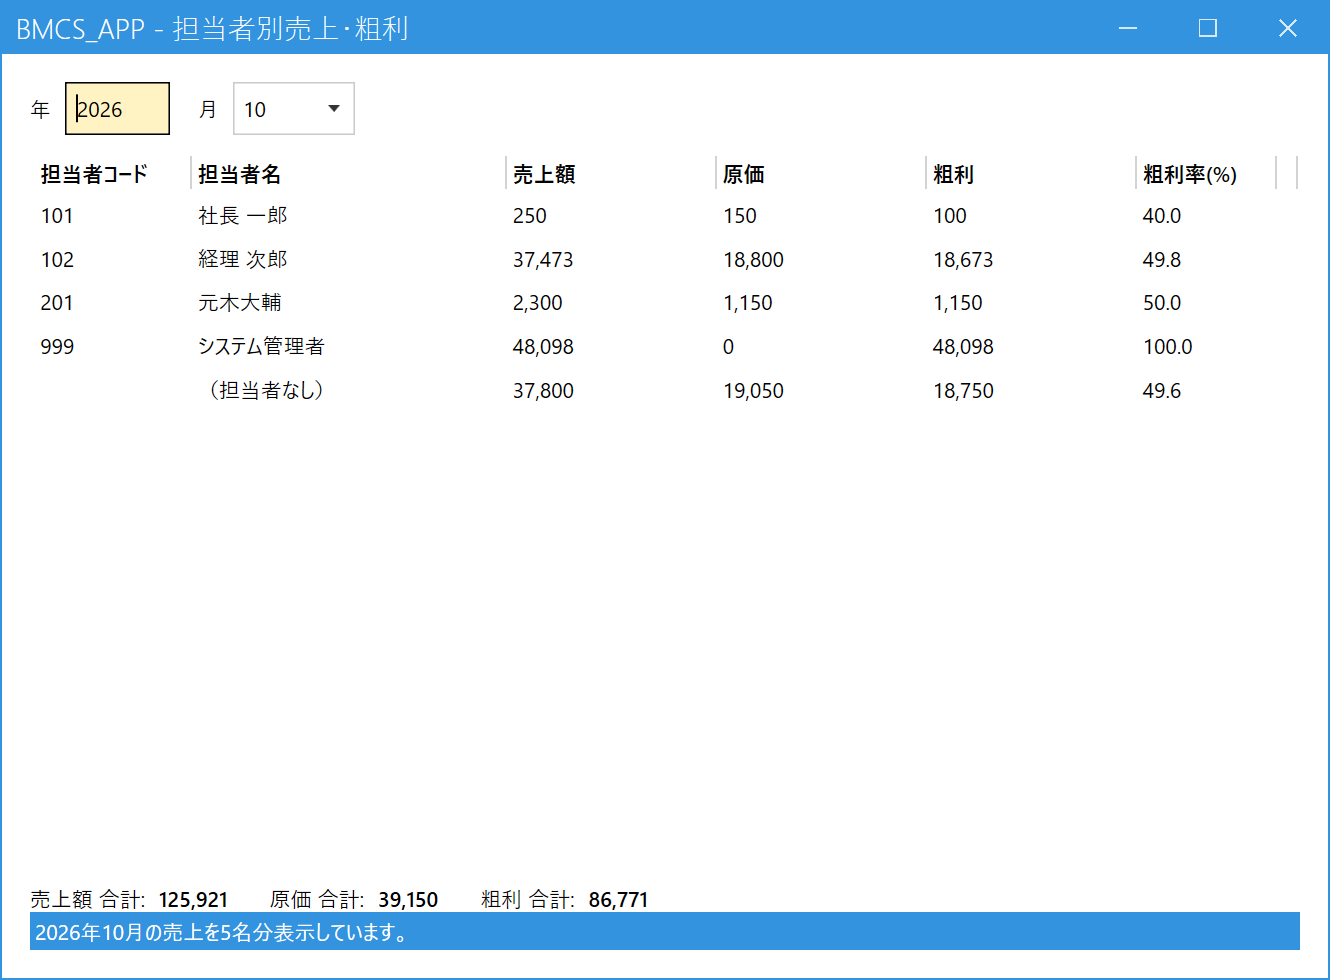
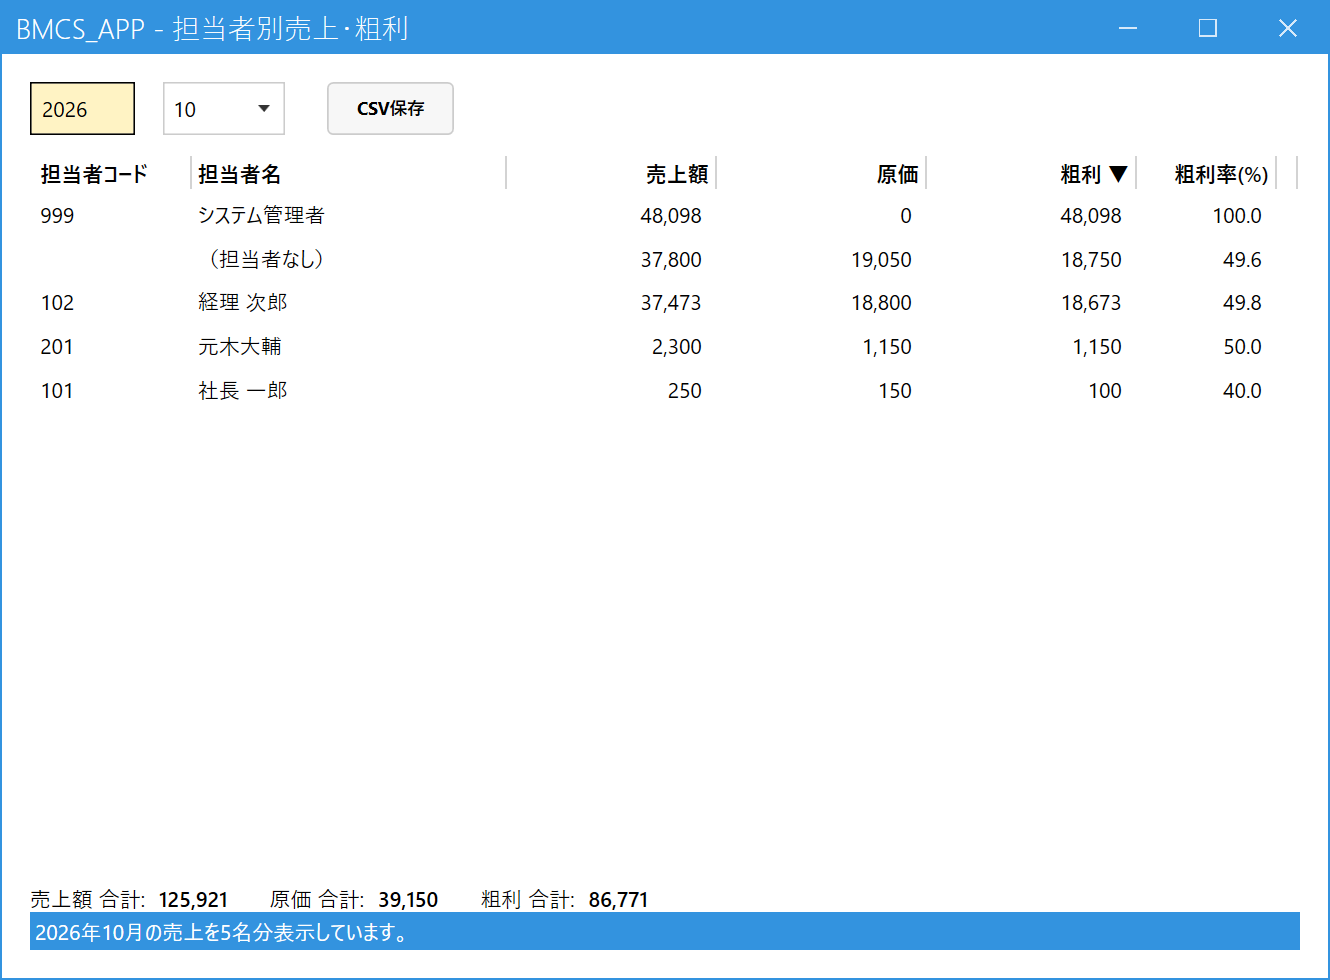
操作マニュアルの分析画面の画像を撮り直し、得意先別・商品別を図入りで説明する
- 担当者別売上・粗利の画像を新しい画面（ラベル削除・CSV保存・粗利降順）に差し替え、注釈と説明を直す
- 得意先別・商品別売上・粗利と、並べ替え済みの画像を追加し、sales-summary.html に図を入れる

diff --git a/docs/user-manual-jp/sales-summary.html b/docs/user-manual-jp/sales-summary.html
@@ -27,6 +27,32 @@
 </table>
 <p>開くと<b>今月</b>の集計が表示されます。ほかの月を見るときは、左上の<b>年</b>（4桁）と<b>月</b>の欄を変えると、すぐに表示し直します。月次締めをしていない月でも見られます。画面の下に、全体の<b>合計</b>（売上額・原価・粗利）が出ます。</p>
 
+<figure data-ann='[
+ {"r":[30,82,255,53],"n":1,"b":[700,108]},
+ {"r":[327,82,127,53],"n":2,"b":[560,40]},
+ {"r":[33,156,1330,36],"n":3,"b":[1150,110]},
+ {"r":[30,196,1375,305],"n":4,"b":[700,640]},
+ {"r":[22,878,640,40],"n":5,"b":[900,800]}]'>
+  <div class="frame"><img src="images/csales-01-main.png" alt="得意先別売上・粗利"></div>
+  <figcaption>得意先別売上・粗利（2026年10月の例）</figcaption>
+</figure>
+<ol class="legend">
+  <li><b>年・月</b>：集計する月です。左が年（4桁）、右が月です。</li>
+  <li><b>CSV保存</b>：表示している一覧をCSVファイルに保存します（下の「並べ替えとCSV保存」参照）。</li>
+  <li><b>列の見出し</b>：クリックすると、その列で並べ替えます。開いた直後は<b>粗利の大きい順</b>（見出しに「▼」が付いています）です。</li>
+  <li><b>得意先ごとの集計</b>：得意先ごとの売上額・原価・粗利・粗利率が並びます。</li>
+  <li><b>合計</b>：全得意先の売上額・原価・粗利の合計です。</li>
+</ol>
+
+<figure data-ann='[
+ {"r":[30,196,1345,665],"n":1,"b":[1418,300]}]'>
+  <div class="frame"><img src="images/psales-01-main.png" alt="商品別売上・粗利"></div>
+  <figcaption>商品別売上・粗利（2026年10月の例）</figcaption>
+</figure>
+<ol class="legend">
+  <li><b>商品ごとの集計</b>：商品ごとの売上額・原価・粗利・粗利率が並びます。商品が多くて画面に収まらないときは、右端のスクロールバーで下へ送ります。ほかの部分（年・月、CSV保存、見出し、合計）は得意先別と同じです。</li>
+</ol>
+
 <h2><span class="no">2.</span>数字の見かた</h2>
 <p><a href="employee-sales.html">担当者別の売上・粗利</a>と同じです。</p>
 <table>
@@ -42,6 +68,15 @@
   <li><b>並べ替え</b>：列の見出しをクリックすると、その列の小さい順（▲）に並びます。もう一度クリックすると大きい順（▼）になります。開いた直後は<b>粗利の大きい順</b>です。</li>
   <li><b>CSV保存</b>：<b>「CSV保存」</b>ボタンを押して保存先を決めると、<b>画面に見えている並び順のまま</b>CSVファイルに保存できます。Excelで開けます。</li>
 </ul>
+
+<figure data-ann='[
+ {"r":[593,156,210,36],"n":1,"b":[700,110]}]'>
+  <div class="frame"><img src="images/psales-02-sorted.png" alt="売上額で並べ替えた商品別売上・粗利"></div>
+  <figcaption>「売上額」の見出しをクリックした状態（売上額の小さい順）</figcaption>
+</figure>
+<ol class="legend">
+  <li><b>並べ替えた列</b>：見出しに「▲」（小さい順）または「▼」（大きい順）が付きます。</li>
+</ol>
 
 <div class="note">集計は、画面を開くたび（年・月を変えるたび）にその時点の売上から計算し直します。取り消した売上は含みません。</div>
 <div class="note">請求の集約（支店の売上を本社にまとめて請求する設定）があっても、得意先別では売上伝票の得意先のまま集計します（本社にまとめません）。</div>

diff --git a/docs/user-manual-jp/employee-sales.html b/docs/user-manual-jp/employee-sales.html
@@ -21,17 +21,21 @@
 <h2><span class="no">1.</span>月を選んで表示する</h2>
 <p>メインメニューの<b>「分析」</b>の中の<b>「担当者別売上・粗利」</b>を開きます。開くと<b>今月</b>の集計が表示されます。ほかの月を見るときは、左上の<b>年</b>（4桁）と<b>月</b>の欄を変えると、すぐに表示し直します。</p>
 <figure data-ann='[
- {"r":[30,82,325,53],"n":1,"b":[700,108]},
- {"r":[30,156,1270,208],"n":2,"b":[1000,110]},
- {"r":[30,371,1270,42],"n":3,"b":[400,560]},
- {"r":[22,878,640,40],"n":4,"b":[900,800]}]'>
+ {"r":[30,82,255,53],"n":1,"b":[700,108]},
+ {"r":[327,82,127,53],"n":2,"b":[560,40]},
+ {"r":[30,156,1270,36],"n":3,"b":[1000,110]},
+ {"r":[30,196,1270,215],"n":4,"b":[700,560]},
+ {"r":[30,238,1270,44],"n":5,"b":[1313,260]},
+ {"r":[22,878,640,40],"n":6,"b":[900,800]}]'>
   <div class="frame"><img src="images/esales-01-main.png" alt="担当者別売上・粗利"></div>
   <figcaption>担当者別売上・粗利（2026年10月の例）</figcaption>
 </figure>
 <ol class="legend">
-  <li><b>年・月</b>：集計する月です。月次締めをしていない月でも見られます。</li>
-  <li><b>担当者ごとの集計</b>：担当者コード順に、売上額・原価・粗利・粗利率が並びます。</li>
-  <li><b>（担当者なし）</b>：担当者が決まらない売上をまとめた行です（下の「担当者の決まり方」参照）。いちばん下に出ます。</li>
+  <li><b>年・月</b>：集計する月です。左が年（4桁）、右が月です。月次締めをしていない月でも見られます。</li>
+  <li><b>CSV保存</b>：表示している一覧をCSVファイルに保存します（<a href="#sort-csv">下の「並べ替えとCSV保存」</a>参照）。</li>
+  <li><b>列の見出し</b>：クリックすると、その列で並べ替えます。開いた直後は<b>粗利の大きい順</b>（見出しに「▼」が付いています）です。</li>
+  <li><b>担当者ごとの集計</b>：担当者ごとの売上額・原価・粗利・粗利率が並びます。</li>
+  <li><b>（担当者なし）</b>：担当者が決まらない売上をまとめた行です（下の「担当者の決まり方」参照）。粗利の大きさに応じた位置に出ます。</li>
   <li><b>合計</b>：全担当者の売上額・原価・粗利の合計です。</li>
 </ol>
 
@@ -51,7 +55,7 @@
   <li>どちらも無ければ<b>「（担当者なし）」</b>。</li>
 </ol>
 
-<h2><span class="no">3.</span>並べ替えとCSV保存</h2>
+<h2 id="sort-csv"><span class="no">3.</span>並べ替えとCSV保存</h2>
 <ul>
   <li><b>並べ替え</b>：列の見出しをクリックすると、その列の小さい順（▲）に並びます。もう一度クリックすると大きい順（▼）になります。開いた直後は<b>粗利の大きい順</b>です。</li>
   <li><b>CSV保存</b>：<b>「CSV保存」</b>ボタンを押して保存先を決めると、<b>画面に見えている並び順のまま</b>CSVファイルに保存できます。Excelで開けます。</li>
